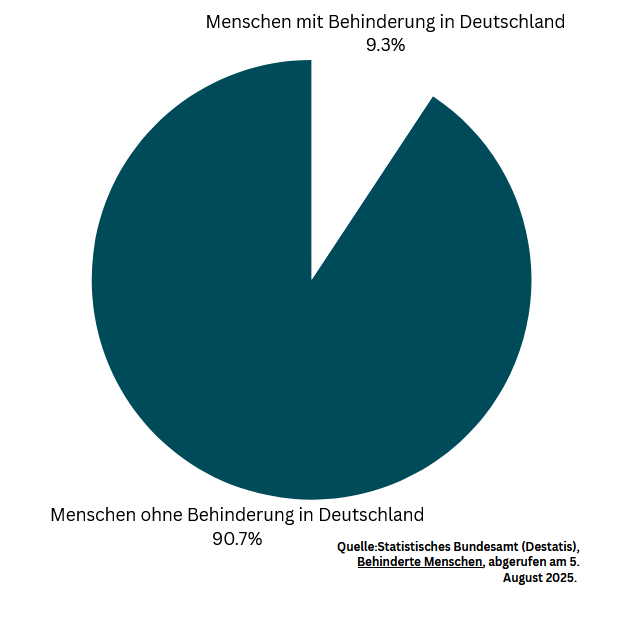
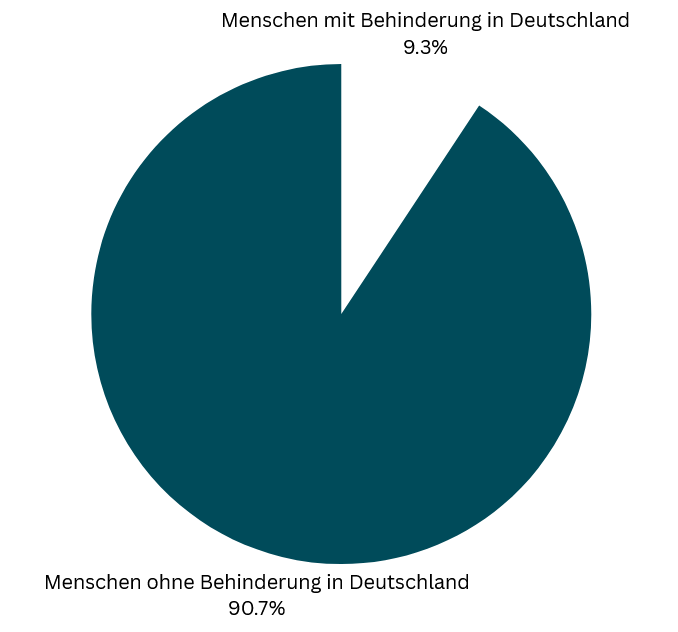
quelle statistik

diff --git a/app/pages/index.vue b/app/pages/index.vue
@@ -34,7 +34,22 @@
 
       <!-- Bild rechts -->
 
-      <NuxtImg src="/img/Diagramm.png" class="flow-image-right" alt="" />
+      <figure class="flow-image-right">
+        <NuxtImg
+          src="/img/Diagramm.png"
+          alt="Anteil von Menschen mit Behinderung in Deutschland (Diagramm)"
+        />
+        <figcaption>
+          Quelle:
+          <a
+            href="https://www.destatis.de/DE/Themen/Gesellschaft-Umwelt/Gesundheit/Behinderte-Menschen/_inhalt.html"
+            target="_blank"
+            rel="noopener"
+          >
+            Zahlen nach Bundesamt für Statistik, Stand 2024
+          </a>
+        </figcaption>
+      </figure>
 
       <p class="text-xl text-block mt-4">
         Barrierefreiheit im Netz ist kein Extra, sondern ein Menschenrecht. Wenn
